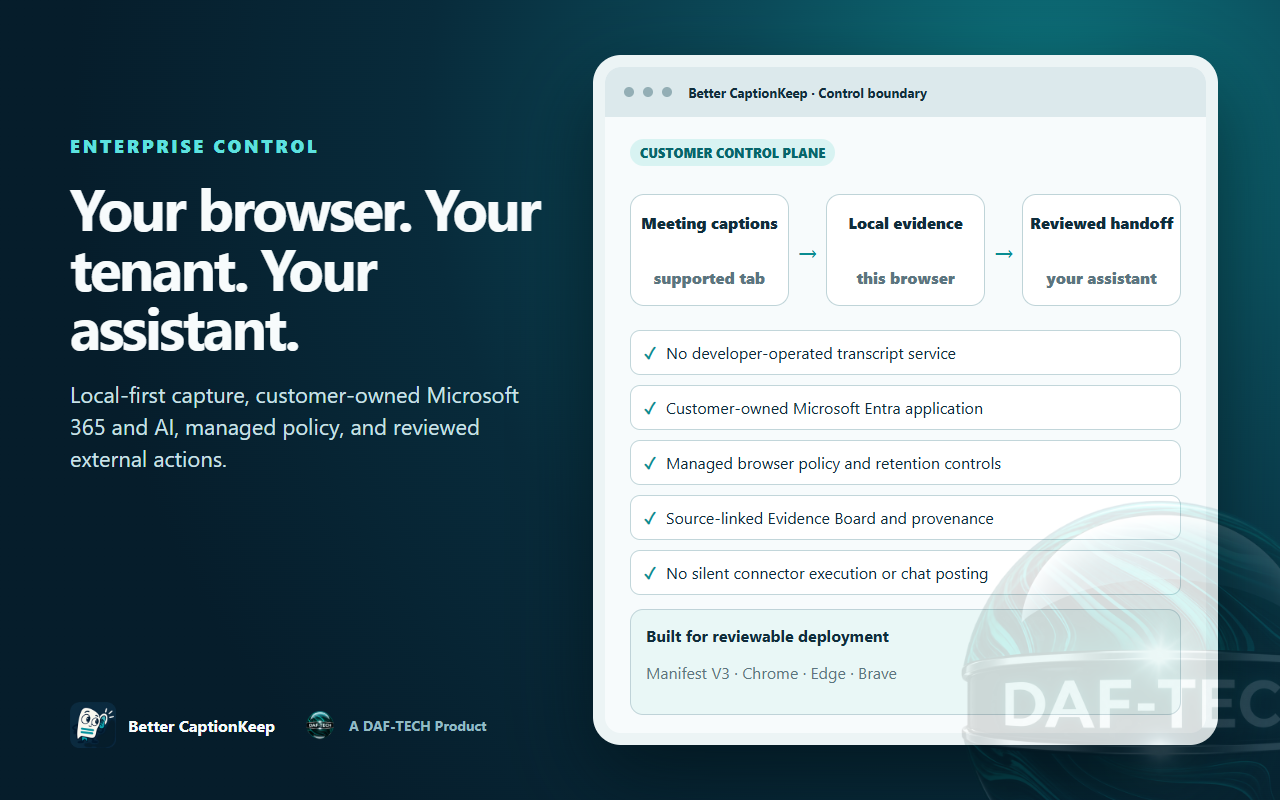
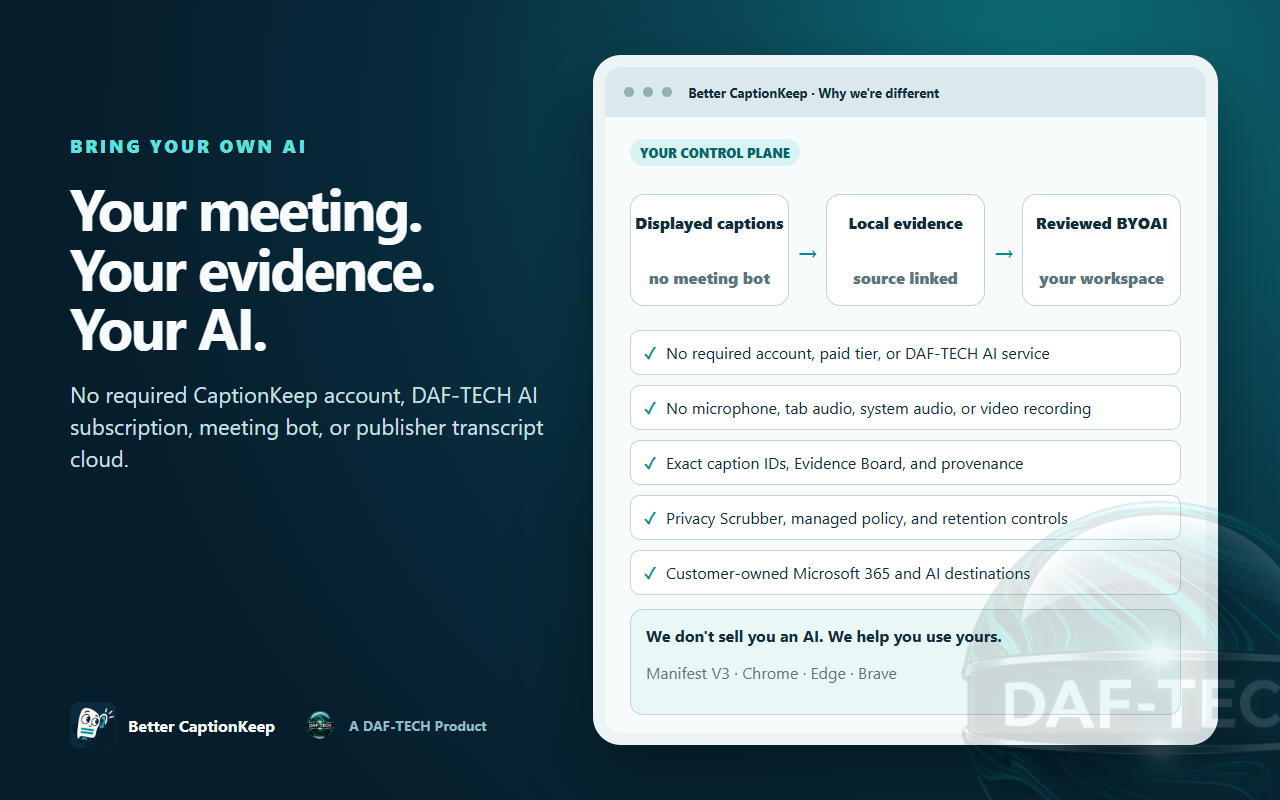
feat: position full product around unified BYOAI

diff --git a/store-assets/5.4/source.html b/store-assets/5.4/source.html
@@ -7,6 +7,6 @@ body.promo{display:block}body.small .promo p{display:none}body.small .promo h1{f
 <section id="s2" class="slide"><div class="copy"><div class="eyebrow">Explicit meeting controls</div><h1>Nothing starts until you choose it.</h1><p>Live captions, the Teams attendee panel, and the official tenant transcript are separate, visible actions.</p></div><div class="window"><div class="chrome"><i class="dot"></i><i class="dot"></i><i class="dot"></i>&nbsp; Evidence Board · Microsoft Teams</div><div class="panel"><div class="toolbar"><div><span class="pill">CURRENT MEETING</span><h2 style="margin-top:8px">Quarterly planning</h2></div><span class="pill">Waiting</span></div><div class="source"><div class="source-head"><strong>Meeting sources</strong><span>Off until you choose them</span></div><div class="actions"><span class="button primary">Enable live captions</span><span class="button">Open attendee panel</span><span class="button">Request Teams transcript</span></div><p class="muted" style="margin-bottom:0">Opening this panel does not change the meeting.</p></div><div class="card" style="margin-top:26px"><strong>Clear status. No surprise automation.</strong><div class="checklist"><div class="check"><i>✓</i>Each source is session-scoped</div><div class="check"><i>✓</i>Organization policy still applies</div><div class="check"><i>✓</i>The official Microsoft 365 copy stays distinct</div></div></div></div></div><img class="sphere-watermark" src="../../branding/daf-tech/daf-tech-sphere.png"><div class="brandline"><img class="scribble" src="../../teams-captions-saver/icons/scribble-128.png">Better CaptionKeep <img class="daf" src="../../branding/daf-tech/daf-tech-sphere.png"><small>A DAF-TECH Product</small></div></section>
 <section id="s3" class="slide"><div class="copy"><div class="eyebrow">On the Fly</div><h1>Select it. Research it. Keep the evidence.</h1><p>Highlight meeting words and turn them into a bounded research request without stopping the conversation.</p></div><div class="window"><div class="chrome"><i class="dot"></i><i class="dot"></i><i class="dot"></i>&nbsp; Better CaptionKeep · Live Workspace</div><div class="panel"><div class="toolbar"><div><span class="pill">LIVE TRANSCRIPT</span><h2 style="margin-top:8px">Customer architecture review</h2></div><span class="pill">Capturing</span></div><div class="card caption"><b>CAP-0087 · 11:24 AM · Alex Rivera</b><p>“Confirm the <span class="selected">retention requirement</span> before the pilot begins.”</p><div class="actions"><span class="button">Mark</span><span class="button primary">On the Fly</span></div></div><div class="selectionbar"><img src="../../teams-captions-saver/icons/on-the-fly-orb.png"><div><strong>CAP-0087 · Selected meeting text</strong><br><span class="muted">retention requirement</span></div><span class="button primary">Choose task</span></div><div class="preview">TASK: Research with sources<br>EVIDENCE: CAP-0087<br>STATUS: Local — nothing sent</div></div></div><img class="sphere-watermark" src="../../teams-captions-saver/icons/on-the-fly-orb.png"><div class="brandline"><img class="scribble" src="../../teams-captions-saver/icons/scribble-128.png">Better CaptionKeep <img class="daf" src="../../branding/daf-tech/daf-tech-sphere.png"><small>A DAF-TECH Product</small></div></section>
 <section id="s4" class="slide"><div class="copy"><div class="eyebrow">Your AI. Your final click.</div><h1>Research without surrendering control.</h1><p>Review the exact evidence and instructions, then copy and open your chosen AI workspace. CaptionKeep never presses Send.</p></div><div class="window"><div class="chrome"><i class="dot"></i><i class="dot"></i><i class="dot"></i>&nbsp; On the Fly · Review AI handoff</div><div class="panel"><div class="toolbar"><div><span class="pill">REVIEWED HANDOFF</span><h2 style="margin-top:8px">Research with sources</h2></div><span class="pill">Scrubby on</span></div><div class="preview" style="line-height:1.5">TASK: Research with sources<br><br>Research the selected claim. Separate verified facts from inference and cite reliable sources.<br><br>SELECTED MEETING EVIDENCE<br>[CAP-0087] 11:24 AM — Alex Rivera<br>retention requirement</div><div class="card"><strong>Choose an approved assistant</strong><div class="actions"><span class="button primary">Copy + open ChatGPT</span><span class="button primary">Copy + open Claude</span></div><p class="boundary">Nothing is submitted automatically. Confirm the active workspace, paste, review, and send there.</p></div></div></div><img class="sphere-watermark" src="../../teams-captions-saver/icons/on-the-fly-orb.png"><div class="brandline"><img class="scribble" src="../../teams-captions-saver/icons/scribble-128.png">Better CaptionKeep <img class="daf" src="../../branding/daf-tech/daf-tech-sphere.png"><small>A DAF-TECH Product</small></div></section>
-<section id="s5" class="slide"><div class="copy"><div class="eyebrow">Enterprise control</div><h1>Your browser. Your tenant. Your assistant.</h1><p>Local-first capture, customer-owned Microsoft 365 and AI, managed policy, and reviewed external actions.</p></div><div class="window"><div class="chrome"><i class="dot"></i><i class="dot"></i><i class="dot"></i>&nbsp; Better CaptionKeep · Control boundary</div><div class="panel"><span class="pill">CUSTOMER CONTROL PLANE</span><div class="flow"><div class="flowbox">Meeting captions<br><span class="muted">supported tab</span></div><div class="arrow">→</div><div class="flowbox">Local evidence<br><span class="muted">this browser</span></div><div class="arrow">→</div><div class="flowbox">Reviewed handoff<br><span class="muted">your assistant</span></div></div><div class="checklist"><div class="check"><i>✓</i>No developer-operated transcript service</div><div class="check"><i>✓</i>Customer-owned Microsoft Entra application</div><div class="check"><i>✓</i>Managed browser policy and retention controls</div><div class="check"><i>✓</i>Source-linked Evidence Board and provenance</div><div class="check"><i>✓</i>No silent connector execution or chat posting</div></div><div class="card" style="background:#e9f7f6"><strong>Built for reviewable deployment</strong><p class="muted">Manifest V3 · Chrome · Edge · Brave</p></div></div></div><img class="sphere-watermark" src="../../branding/daf-tech/daf-tech-sphere.png"><div class="brandline"><img class="scribble" src="../../teams-captions-saver/icons/scribble-128.png">Better CaptionKeep <img class="daf" src="../../branding/daf-tech/daf-tech-sphere.png"><small>A DAF-TECH Product</small></div></section>
+<section id="s5" class="slide"><div class="copy"><div class="eyebrow">Bring Your Own AI</div><h1>Your meeting. Your evidence. Your AI.</h1><p>No required CaptionKeep account, DAF-TECH AI subscription, meeting bot, or publisher transcript cloud.</p></div><div class="window"><div class="chrome"><i class="dot"></i><i class="dot"></i><i class="dot"></i>&nbsp; Better CaptionKeep · Why we're different</div><div class="panel"><span class="pill">YOUR CONTROL PLANE</span><div class="flow"><div class="flowbox">Displayed captions<br><span class="muted">no meeting bot</span></div><div class="arrow">→</div><div class="flowbox">Local evidence<br><span class="muted">source linked</span></div><div class="arrow">→</div><div class="flowbox">Reviewed BYOAI<br><span class="muted">your workspace</span></div></div><div class="checklist"><div class="check"><i>✓</i>No required account, paid tier, or DAF-TECH AI service</div><div class="check"><i>✓</i>No microphone, tab audio, system audio, or video recording</div><div class="check"><i>✓</i>Exact caption IDs, Evidence Board, and provenance</div><div class="check"><i>✓</i>Privacy Scrubber, managed policy, and retention controls</div><div class="check"><i>✓</i>Customer-owned Microsoft 365 and AI destinations</div></div><div class="card" style="background:#e9f7f6"><strong>We don't sell you an AI. We help you use yours.</strong><p class="muted">Manifest V3 · Chrome · Edge · Brave</p></div></div></div><img class="sphere-watermark" src="../../branding/daf-tech/daf-tech-sphere.png"><div class="brandline"><img class="scribble" src="../../teams-captions-saver/icons/scribble-128.png">Better CaptionKeep <img class="daf" src="../../branding/daf-tech/daf-tech-sphere.png"><small>A DAF-TECH Product</small></div></section>
 <section id="promo" class="promo"><div class="promo-copy"><div class="label">On the Fly · A DAF-TECH Product</div><h1>If your meeting notes can’t show their work, don’t trust them.</h1><p>Select it. Research it. Keep the evidence.</p></div><div class="product"><img src="../../teams-captions-saver/icons/scribble-128.png">Better CaptionKeep</div></section>
 <script>const q=new URLSearchParams(location.search);const slide=q.get('slide')||'1';document.body.className=q.has('promo')?`promo ${q.get('promo')}`:`s${slide}`;</script></body></html>

diff --git a/teams-captions-saver/handoff.html b/teams-captions-saver/handoff.html
@@ -57,11 +57,11 @@
 <body>
 <main>
     <header>
-        <h1 id="handoffTitle">Review your AI handoff</h1>
-        <p id="handoffIntro" class="intro">Review or remove sensitive details before copying. Opening an assistant does not send this transcript—you decide whether to paste or attach it there.</p>
+        <h1 id="handoffTitle">Review your BYOAI handoff</h1>
+        <p id="handoffIntro" class="intro">Review or remove sensitive details before copying. Better CaptionKeep does not require a DAF-TECH AI service; you decide whether to share this with the AI workspace your organization already provides.</p>
     </header>
     <section class="workspace-warning" aria-labelledby="workspaceWarningTitle">
-        <h2 id="workspaceWarningTitle">Confirm the destination workspace</h2>
+        <h2 id="workspaceWarningTitle">Confirm your BYOAI destination</h2>
         <p>AI assistants can keep personal and enterprise workspaces in the same browser session. Before pasting, confirm the opened page shows the organization approved for this meeting.</p>
     </section>
     <section class="scrubber-control" aria-labelledby="scrubberTitle">
@@ -120,7 +120,7 @@
         <textarea id="chunk" readonly aria-label="Current complete-evidence copy chunk"></textarea>
     </section>
     <section aria-labelledby="providerTitle">
-        <h2 id="providerTitle">Choose an approved assistant</h2>
+        <h2 id="providerTitle">Choose your approved AI workspace</h2>
         <div id="providers"></div>
     </section>
 </main>

diff --git a/teams-captions-saver/sidepanel.html b/teams-captions-saver/sidepanel.html
@@ -63,7 +63,7 @@
                 <img src="icons/on-the-fly-orb.png" alt="" width="72" height="72">
                 <div>
                     <h2 id="on-the-fly-heading">On the Fly</h2>
-                    <p>Select words in any captured caption, or use a whole caption. Review exactly what will be shared before opening your AI.</p>
+                    <p>Select words in any captured caption, or use a whole caption. Review exactly what will be shared, then use the AI workspace or connected BYOAI your organization already provides.</p>
                 </div>
             </section>
             <div id="on-the-fly-bar" class="instant-research-bar" hidden>

diff --git a/CHROMEWEBSTORE.md b/CHROMEWEBSTORE.md
@@ -23,11 +23,42 @@ Better CaptionKeep — Live Meeting Transcript
 
 **Short Description**
 
-Local live meeting transcripts for Teams, Google Meet, and Zoom, with source-linked evidence you control.
+Local Teams, Meet, and Zoom transcripts with source-linked evidence and BYOAI—no bot, account, or AI subscription.
 
 **Detailed Description**
 
-Better CaptionKeep preserves meeting captions from Microsoft Teams, Google Meet, and Zoom Web as a private, readable transcript. Opening the extension does not change the meeting. The user explicitly enables live captions from Live Workspace; Teams attendee capture and Microsoft 365 transcription each have their own visible action. The interface clearly distinguishes the local browser copy from the official tenant-retained transcript. A signed-in organizational user can select the current meeting or choose one of five recent Teams meetings to retrieve an authorized official transcript directly into the standard transcript viewer when their tenant permits the delegated access.
+Better CaptionKeep turns captions already displayed in Microsoft Teams, Google Meet, and Zoom Web into a private, searchable transcript and source-linked meeting evidence. It does not add a meeting bot, record microphone or video, or require a Better CaptionKeep account.
+
+**Bring Your Own AI (BYOAI)**
+
+Use the ChatGPT, Claude, Microsoft Copilot, or Gemini workspace you already have. Better CaptionKeep does not sell a required AI subscription or route meetings through a mandatory DAF-TECH AI service. On the Fly prepares a bounded, editable prompt from the exact words you selected. You review it, choose **Copy + open**, confirm the destination workspace, and decide whether to paste and send it there. The broader BYOAI framework also accommodates future validated customer-owned hosted assistants and gateways; the 5.4 Store artifact claims only the reviewed workspace handoff that can be demonstrated today.
+
+**What you get**
+
+- Live Workspace side panel for Teams, Google Meet, and Zoom Web.
+- Explicit controls: nothing enables captions, opens the Teams attendee panel, or requests a Teams transcript until you choose it.
+- Local transcript history, interruption recovery, full-text search, speaker aliases, corrections, and a local terminology dictionary.
+- Evidence Board markers for decisions, actions, questions, risks, follow-ups, and important moments, each tied to its source-caption ID.
+- On the Fly research, explanation, live-reply, and follow-up tasks using your chosen AI workspace.
+- Privacy Scrubber, on by default, for supported sensitive patterns before copy, export, or AI handoff.
+- TXT, Markdown, DOCX, Print/PDF, evidence-brief Markdown, and provenance JSON exports.
+- SRT and WebVTT when an imported official source contains real media cue timing.
+- User-reviewed loaded meeting-chat/shared-link snapshots and active-tab screenshots.
+- Feature-detected on-device translation with no silent cloud substitute.
+- Optional customer-owned Microsoft 365 transcript import through the organization's own single-tenant Entra application.
+- Managed browser policy, Intune deployment profiles, local retention controls, and documented release provenance.
+
+**Why it is different**
+
+- No meeting bot.
+- No required Better CaptionKeep account or paid feature tier.
+- No required DAF-TECH AI subscription or publisher-operated transcript cloud; optional connected BYOAI remains customer-owned.
+- No automatic prompt submission, chat posting, connector execution, or fabricated assistant return channel.
+- Displayed-caption minimization instead of broad microphone, tab-audio, system-audio, or video recording.
+- Source-linked evidence and immutable caption references instead of an untraceable AI summary.
+- Customer-controlled Microsoft 365 and AI destinations, with managed policy for organizational deployment.
+
+Opening the extension does not change the meeting. The user explicitly enables live captions from Live Workspace; Teams attendee capture and Microsoft 365 transcription each have their own visible action. The interface clearly distinguishes the local browser copy from the official tenant-retained transcript. A signed-in organizational user can select the current meeting or choose one of five recent Teams meetings to retrieve an authorized official transcript directly into the standard transcript viewer when their tenant permits the delegated access.
 
 Every feature included in Better CaptionKeep is available to every user. There is no paid tier, subscription, activation, or license key. Organization-managed security settings and Microsoft authorization requirements can still control how features operate in a managed environment.
 

diff --git a/docs/UNIFIED-AI-FRAMEWORK.md b/docs/UNIFIED-AI-FRAMEWORK.md
@@ -10,6 +10,12 @@ Better CaptionKeep should present one AI experience for every provider-neutral
 AI task. Ordinary users must not deploy Azure resources, run an MCP server,
 install a native bridge, enter an API endpoint, or obtain an API key.
 
+**BYOAI is the umbrella, not merely the browser-workspace adapter.** A user or
+organization may bring an existing AI web workspace, an on-device model, or a
+customer-owned hosted assistant/gateway. The unifying rule is that CaptionKeep
+does not force a DAF-TECH model account or service. The owner of the AI chooses
+its identity, provider, hosting, retention, tools, and cost boundary.
+
 The default path is **Use my AI**: the extension prepares a bounded, reviewed
 prompt, copies it only after an explicit user action, and opens the user's
 chosen AI workspace. The user remains signed in through the provider's normal
@@ -29,6 +35,10 @@ The user makes one choice in Settings:
 - **On-device only:** never release meeting text to an external AI provider.
 - **Use my AI:** always use the selected ChatGPT, Claude, Copilot, Gemini, or
   other supported workspace adapter.
+- **Connected BYOAI:** use a user- or organization-owned assistant/gateway after
+  its adapter, authentication, permissions, disclosure, and return contract
+  pass live validation. This may be Azure OpenAI, OpenAI, Anthropic, Bedrock,
+  Vertex AI, Microsoft Foundry, or a governed internal/MCP-backed service.
 - **Organization managed:** an administrator selects the allowed execution
   modes and destinations through browser policy.
 - **Off:** disable all AI actions without affecting capture, Evidence Board,
@@ -149,23 +159,24 @@ workspace. Returning a cited answer automatically to the Evidence panel is a
 different capability and must not be promised until a real API-backed service
 or governed enterprise gateway exists.
 
-## Optional automatic-return path
+## Connected BYOAI and optional automatic return
 
-Automatic return uses the same task and result contracts but requires a real
-backend. It is optional and never required for core extension use.
+Connected assistance is part of BYOAI. Automatic return uses the same task and
+result contracts but requires a real customer- or user-owned backend. It is
+optional and never required for core extension use.
 
-- **DAF-TECH service:** a narrowly scoped hosted service can provide a small
-  free research allowance without asking users to deploy anything.
+- **User-hosted assistant:** an individual may connect infrastructure they
+  already operate, subject to a supported adapter and explicit disclosure.
 - **Organization gateway:** an enterprise may route tasks to Anthropic,
   OpenAI, Azure OpenAI, Microsoft Foundry, Amazon Bedrock, Google Vertex AI,
   or an approved internal gateway.
 - **MCP:** if used, it lives behind the gateway as a tool/data connector. It is
   not the model, authentication method, or user-facing destination.
 
-Provider credentials stay on the gateway. They are never stored in the
-extension or placed in Store packages. Anthropic's API organization identifier
-does not replace an API credential; Claude Team/Enterprise workspace seats and
-Anthropic API Console access are separate integration paths.
+Provider credentials stay on the connected gateway. They are never placed in
+Store packages. Anthropic's API organization identifier does not replace an API
+credential; Claude Team/Enterprise workspace seats and Anthropic API Console
+access are separate integration paths.
 
 ## Common request and result contracts
 

diff --git a/readme.md b/readme.md
@@ -30,6 +30,25 @@ The viewer also exports SRT/WebVTT when a newly imported official Teams transcri
 
 Better CaptionKeep is a free, local-first transcript and meeting-evidence workspace for Microsoft Teams, Google Meet, and Zoom Web. It captures captions already displayed to the participant rather than recording microphone, tab, or system audio. Browser-local history, search, exports, Privacy Scrubber, Evidence Board, on-device translation where the browser supports it, and review-first AI handoff are available without an account, subscription, or publisher-operated transcript service.
 
+## Why Better CaptionKeep is different
+
+**Bring your AI. Keep your control.** Use the ChatGPT, Claude, Microsoft
+Copilot, or Gemini workspace you already have. The unified BYOAI framework also
+allows future validated adapters for on-device AI and user- or organization-
+owned hosted assistants, gateways, and MCP-backed tools. Better CaptionKeep
+does not make you buy or use a DAF-TECH AI service.
+
+- No meeting bot and no microphone, tab-audio, system-audio, or video recording.
+- No required Better CaptionKeep account, paid tier, activation, or license key.
+- Source-linked Evidence Board markers preserve the exact caption behind a
+  decision, action, question, risk, follow-up, or important moment.
+- On the Fly creates a bounded, reviewed task from selected meeting words;
+  Better CaptionKeep never pastes or submits it automatically.
+- Customer-owned Microsoft 365 and AI destinations remain under the user's or
+  organization's existing identity, tenant, retention, and policy controls.
+- Managed policy, Intune profiles, local retention, privacy disclosures, SBOM,
+  release provenance, and reproducible packages support enterprise review.
+
 Zoom Web has been a governed supported provider since the 5.1 line. Its tested subtitle overlay does not reliably expose speaker identity, so Better CaptionKeep records `Unknown speaker` instead of inventing attribution. Native Zoom desktop-client and system-audio capture are not supported.
 
 The 5.3 line introduces **Verified Teams Transcript**: a delegated Microsoft Graph experience that recognizes the active Teams meeting, shows up to five recent eligible Teams meetings, and retrieves a chosen official transcript into the standard viewer and private local history. Live Edge validation exposed that `5.3.1` hid Microsoft 365 in the Store build even though local Dev/UAT overlays passed. Version `5.3.2` is the controlled recovery: every organization supplies its own single-tenant Entra tenant ID and client ID through local setup or managed policy; Store packages contain no shared tenant identity. The Microsoft 365 setup remains visible, validates configuration before sign-in, and rejects tokens issued by any other tenant. See the [5.3.2 recovery record](docs/RELEASE-5.3.2.md), [Graph transcript connector record](docs/GRAPH-TRANSCRIPT-CONNECTOR.md), and [customer Entra registration runbook](docs/ENTRA-GRAPH-APP-REGISTRATION.md).

diff --git a/docs/ON-THE-FLY-CAMPAIGN.md b/docs/ON-THE-FLY-CAMPAIGN.md
@@ -16,6 +16,14 @@ Product line:
 
 **Select it. Research it. Keep the evidence.**
 
+Master product position:
+
+**Bring your AI. Keep your control.**
+
+Proof line:
+
+**We don't sell you an AI. We help you use yours.**
+
 ## Product truth beneath the attitude
 
 - Highlight meeting words or choose a full caption.
@@ -23,8 +31,10 @@ Product line:
 - Review the exact source-linked prompt inside Better CaptionKeep.
 - Explicitly copy and open the user's chosen AI workspace.
 - Confirm the workspace, paste, review, and send there.
-- No publisher AI account, Azure MCP, extension API key, automatic paste,
-  automatic send, or fabricated return channel.
+- No DAF-TECH AI account or infrastructure is required. Connected BYOAI may use
+  infrastructure the user or organization already owns, once its adapter is
+  configured and validated.
+- No automatic paste, automatic send, or fabricated return channel.
 
 ## Visual system
 
@@ -41,3 +51,29 @@ Primary assets:
 - `store-assets/5.4/04-reviewed-ai-handoff.png`
 - `store-assets/5.4/small-promotional-tile.png`
 - `store-assets/5.4/large-promotional-tile.png`
+
+## Complete feature proof
+
+- Microsoft Teams, Google Meet, and Zoom Web displayed-caption capture.
+- Explicit live captions, Teams attendee panel, and Teams transcription actions.
+- Local history, recovery, full-text search, aliases, corrections, and terminology.
+- Source-linked Evidence Board markers and provenance exports.
+- On the Fly research, explanation, live-reply, and follow-up tasks.
+- Reviewed BYOAI handoff to ChatGPT, Claude, Copilot, and Gemini.
+- Unified BYOAI framework for web workspaces, on-device AI, and optional
+  customer-owned hosted assistants or gateways.
+- Privacy Scrubber and managed disclosure controls.
+- TXT, Markdown, DOCX, Print/PDF, provenance JSON, and evidence briefs.
+- SRT/VTT only when an official source includes real cue timing.
+- Reviewed meeting-chat/shared-link snapshots and active-tab screenshots.
+- Feature-detected on-device translation without silent cloud fallback.
+- Optional customer-owned Microsoft 365 official-transcript import.
+- Managed policy, Intune profiles, retention controls, SBOM, and release provenance.
+
+## Competitive difference
+
+The campaign does not claim that Better CaptionKeep is the only local or
+bot-free product. It leads with the combined boundary the verified source can
+prove: displayed-caption minimization, no required account or paid tier,
+source-linked evidence, reviewed BYOAI, customer-owned destinations, managed
+enterprise controls, and no publisher-operated transcript or AI service.

diff --git a/docs/STORE-DISCOVERY-PLAN.md b/docs/STORE-DISCOVERY-PLAN.md
@@ -41,8 +41,8 @@ Its truthful search vocabulary is:
 
 - Primary: live meeting transcript; meeting captions; Microsoft Teams;
   Google Meet; Zoom Web.
-- Differentiator: source-linked evidence; local transcript; manual evidence
-  markers; no meeting bot.
+- Differentiator: Bring Your Own AI; source-linked evidence; local transcript;
+  manual evidence markers; no meeting bot; no required account or AI subscription.
 - Enterprise proof: managed browser policy; customer-owned Microsoft 365 and
   AI handoff; explicit meeting controls; reviewed export.
 
@@ -58,8 +58,8 @@ Better CaptionKeep — Live Meeting Transcript
 
 **Summary**
 
-Local live meeting transcripts for Teams, Google Meet, and Zoom, with
-source-linked evidence markers and explicit capture controls.
+Local Teams, Meet, and Zoom transcripts with source-linked evidence and
+BYOAI—no bot, account, or AI subscription.
 
 **Category**
 
@@ -76,12 +76,12 @@ privacy and enterprise controls—not a long architecture preamble.
    Teams, Google Meet, and Zoom Web support.
 2. **Nothing starts until you choose it.** The visible caption, attendee, and
    Teams transcript controls with their status states.
-3. **Mark the exact words.** A source-linked Evidence Board marker created from
-   a real transcript excerpt.
-4. **Build a reviewed evidence brief.** The local Evidence Board and explicit
-   copy, download, email-draft, and bundle controls.
-5. **Your browser. Your tenant. Your controls.** Local storage, managed policy,
-   and optional customer-owned Microsoft 365 and reviewed AI handoff.
+3. **Select it. Research it. Keep the evidence.** On the Fly begins with exact,
+   source-linked meeting words.
+4. **Your AI. Your final click.** Review the complete prompt before Copy + open;
+   nothing is pasted or submitted automatically.
+5. **Bring your AI. Keep your control.** No required CaptionKeep account,
+   DAF-TECH AI subscription, meeting bot, or publisher transcript cloud.
 
 Every screenshot must use synthetic meeting content, actual current UI, a
 single visual system, large readable headings, and no more than one main claim.

diff --git a/docs/RELEASE-5.4.md b/docs/RELEASE-5.4.md
@@ -37,7 +37,9 @@ No Azure MCP or assistant service was deployed for 5.4.
 
 ## Explicitly excluded
 
-- Connected “Send to my assistant” or automatic assistant result return.
+- Connected BYOAI automatic result return in the 5.4 artifact. It remains part
+  of the unified framework but needs a validated customer-owned adapter,
+  authentication, permissions, disclosure, and return contract before shipping.
 - Assistant endpoint or native-host enrollment.
 - Automatic research or automatic return of cited results.
 - CaptionKeep MCP server or Azure MCP deployment.
